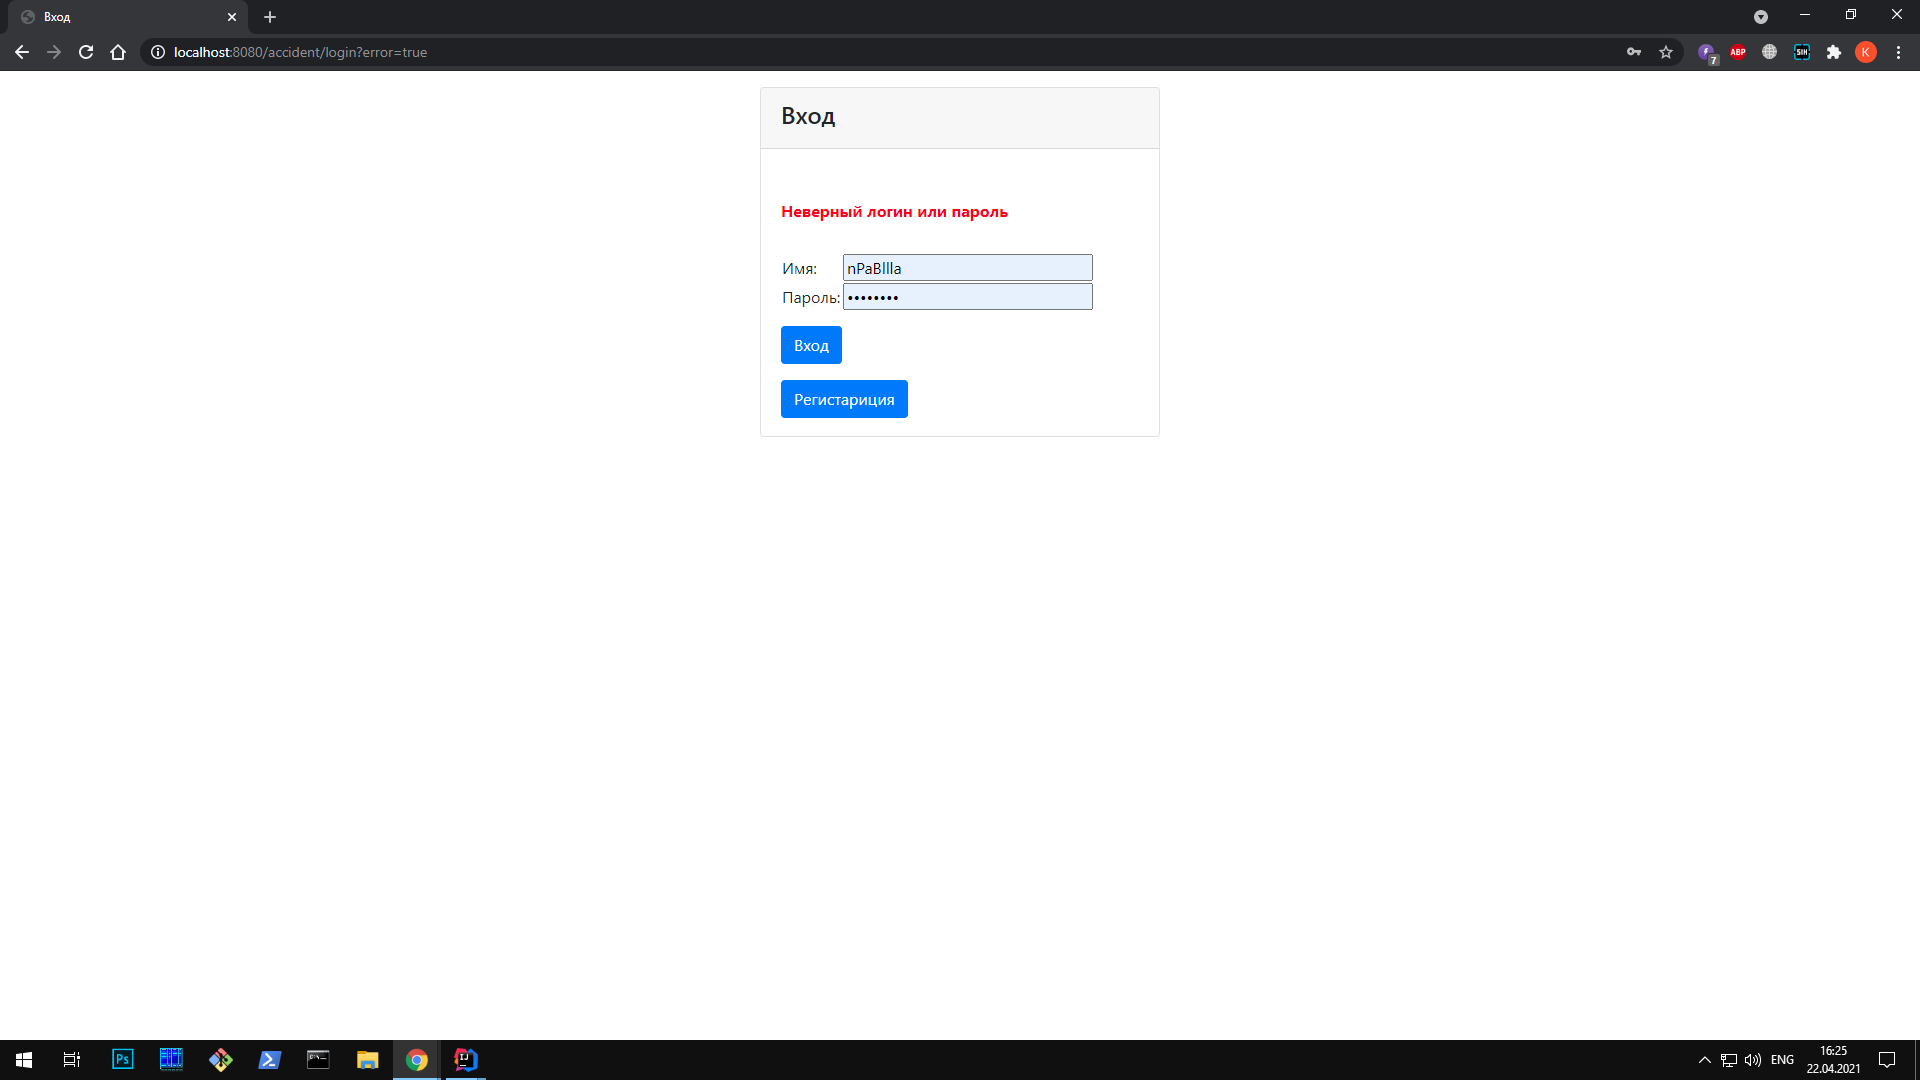
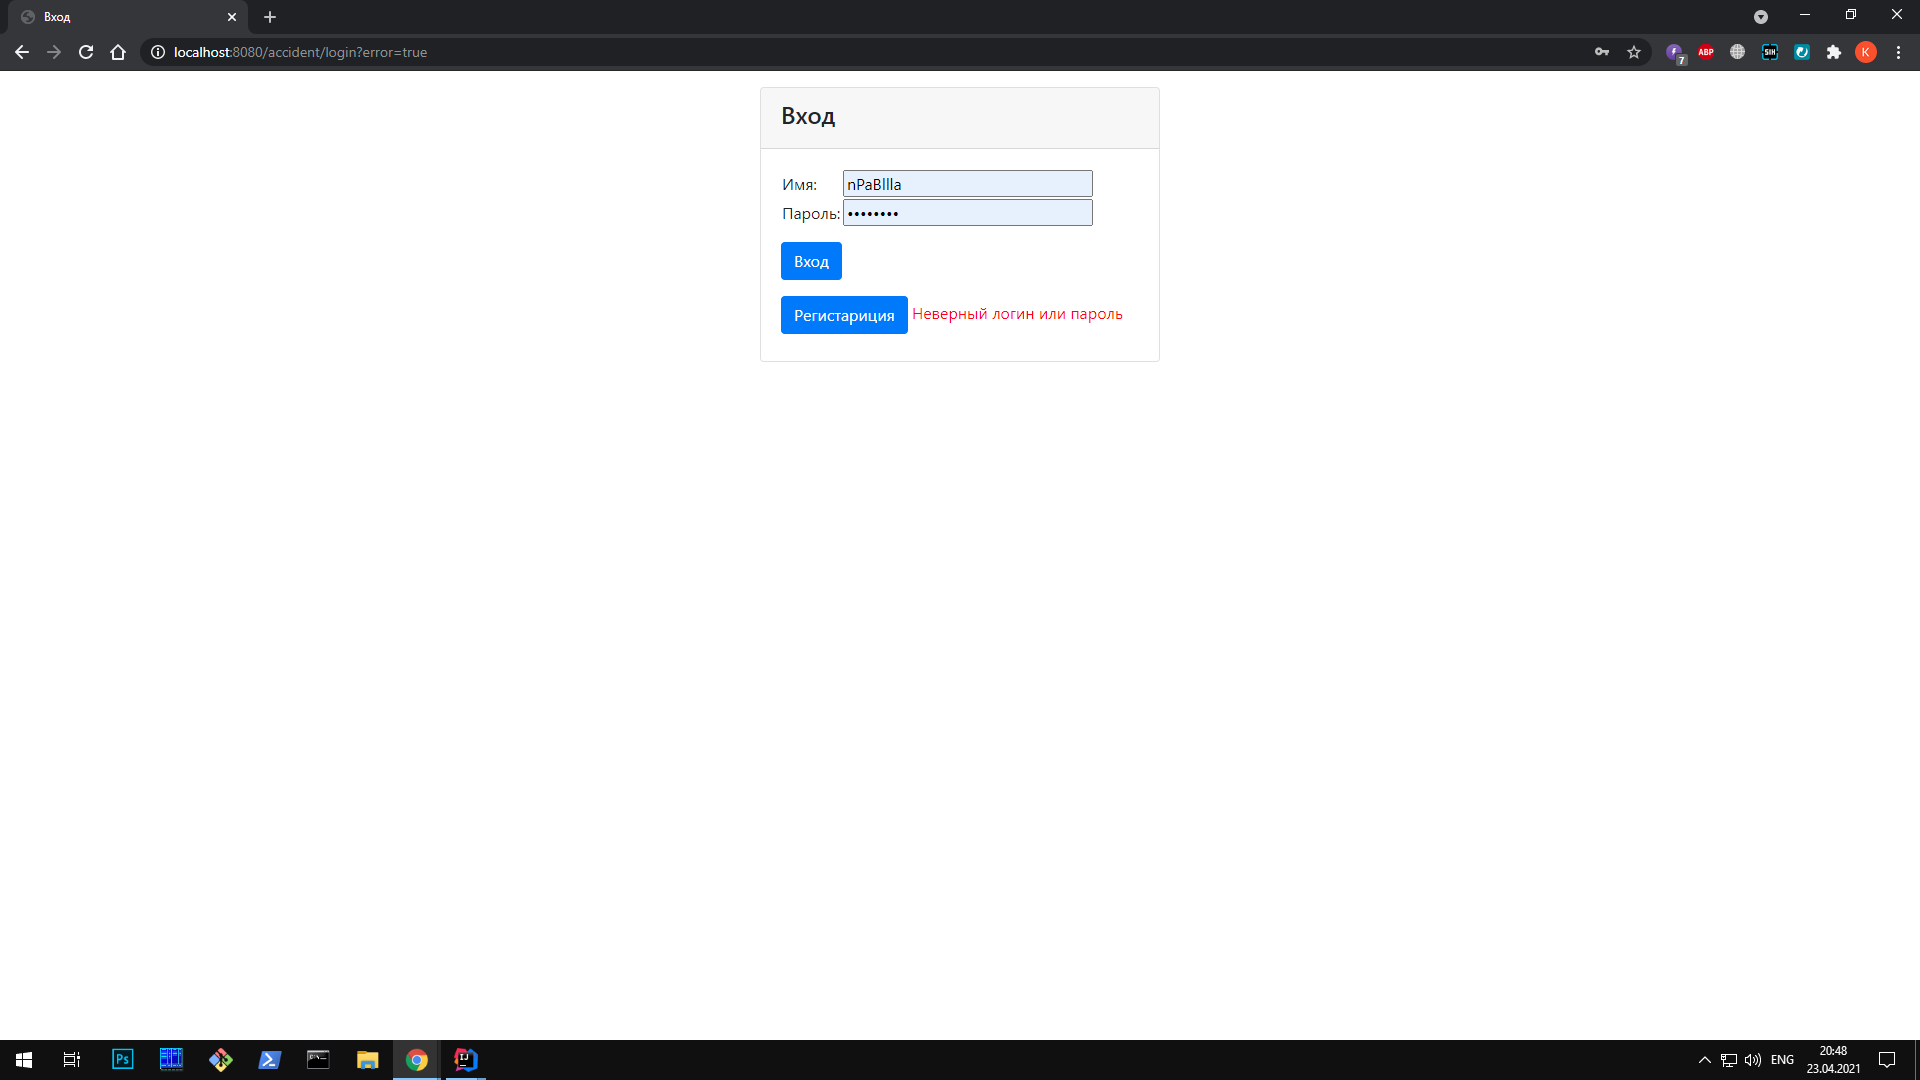
2. Регистрация пользователя [#492630]

Changed region(s): [[0.4062, 0.1528, 0.5938, 0.3972], [0.8438, 0.0306, 0.9375, 0.0611]]

diff --git a/src/main/java/ru/job4j/accident/controller/RegControl.java b/src/main/java/ru/job4j/accident/controller/RegControl.java
@@ -2,13 +2,18 @@ package ru.job4j.accident.controller;
 
 import org.springframework.security.crypto.password.PasswordEncoder;
 import org.springframework.stereotype.Controller;
+import org.springframework.ui.Model;
 import org.springframework.web.bind.annotation.GetMapping;
 import org.springframework.web.bind.annotation.ModelAttribute;
 import org.springframework.web.bind.annotation.PostMapping;
+import org.springframework.web.bind.annotation.RequestParam;
 import ru.job4j.accident.model.Accident;
 import ru.job4j.accident.model.User;
 import ru.job4j.accident.repository.AuthorityRepository;
 import ru.job4j.accident.repository.UserRepository;
+
+import java.util.ArrayList;
+import java.util.List;
 
 @Controller
 public class RegControl {
@@ -24,11 +29,18 @@ public class RegControl {
     }
 
     @PostMapping("/reg")
-    public String save(@ModelAttribute User user) {
-        user.setEnabled(true);
-        user.setPassword(encoder.encode(user.getPassword()));
-        user.setAuthority(authorities.findByAuthority("ROLE_USER"));
-        users.save(user);
+    public String save(@ModelAttribute User user, Model model) {
+        List<User> users = new ArrayList<>();
+        this.users.findAll().forEach(users::add);
+        if (users.stream().anyMatch(e -> e.getUsername().equals(user.getUsername()))) {
+            model.addAttribute("error", "Данный логин уже используется");
+            return "reg";
+        } else {
+            user.setEnabled(true);
+            user.setPassword(encoder.encode(user.getPassword()));
+            user.setAuthority(authorities.findByAuthority("ROLE_USER"));
+            this.users.save(user);
+        }
         return "redirect:/login";
     }
 

diff --git a/src/main/java/ru/job4j/accident/controller/LoginControl.java b/src/main/java/ru/job4j/accident/controller/LoginControl.java
@@ -20,10 +20,10 @@ public class LoginControl {
                             Model model) {
         String errorMessage = null;
         if (error != null) {
-            errorMessage = "Username or Password is incorrect !!";
+            errorMessage = "Неверный логин или пароль";
         }
         if (logout != null) {
-            errorMessage = "You have been successfully logged out !!";
+            errorMessage = "Вы уже вышли из аккаунта";
         }
         model.addAttribute("errorMessage", errorMessage);
         return "login";

diff --git a/README.md b/README.md
@@ -19,6 +19,8 @@
 ![ScreenShot](images/LoginAlert.png)
 ### Страница регистрации
 ![ScreenShot](images/Reg.png)
+### Необходимо ввести корректные данные
+![ScreenShot](images/RegAlert.png)
 ### Главная страница после логина
 ![ScreenShot](images/MainPage.png)
 ### Добавим нарушение
